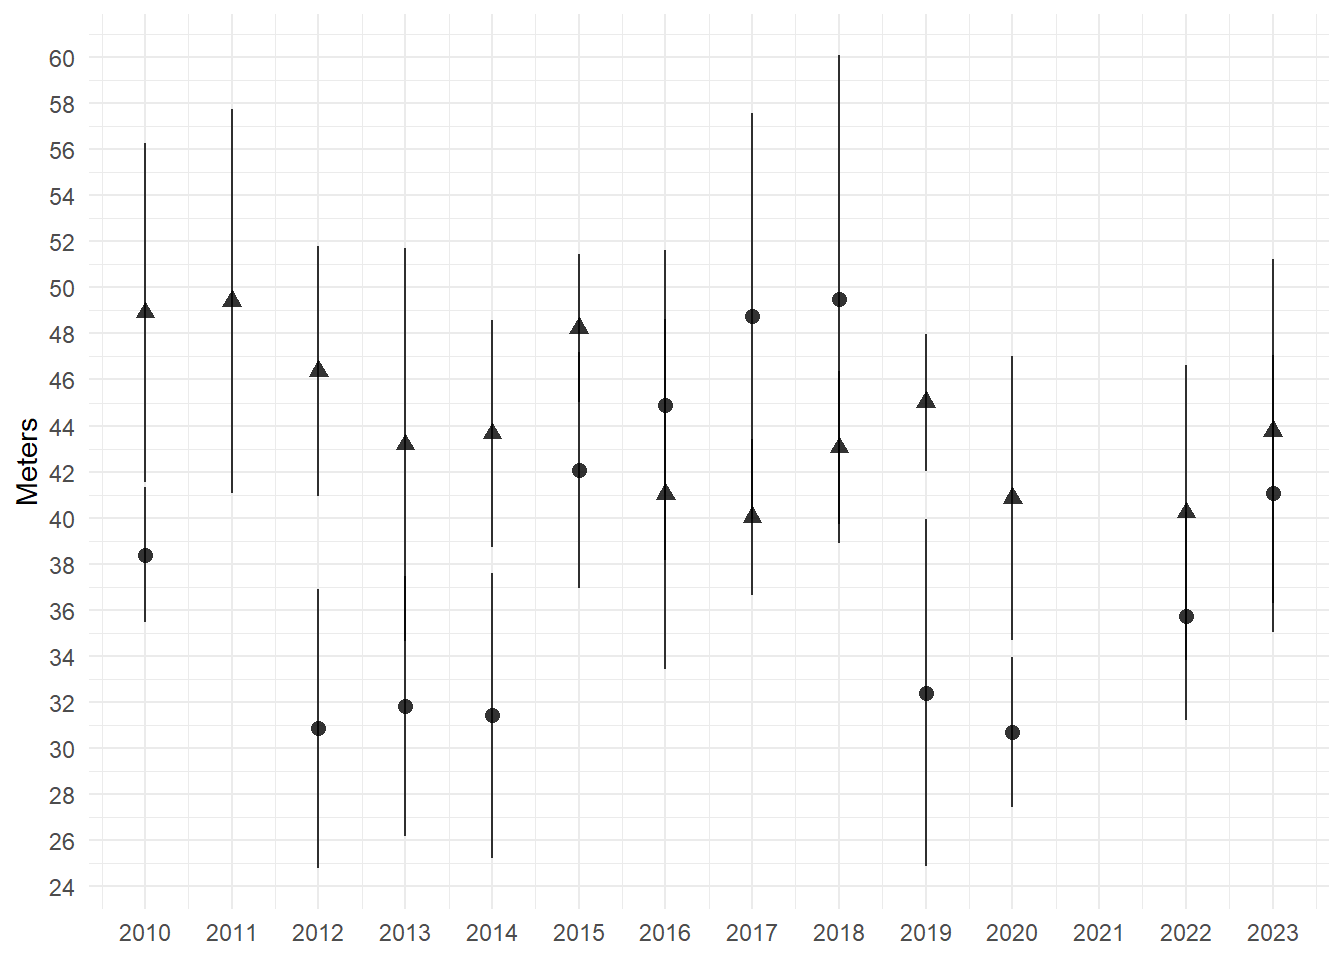
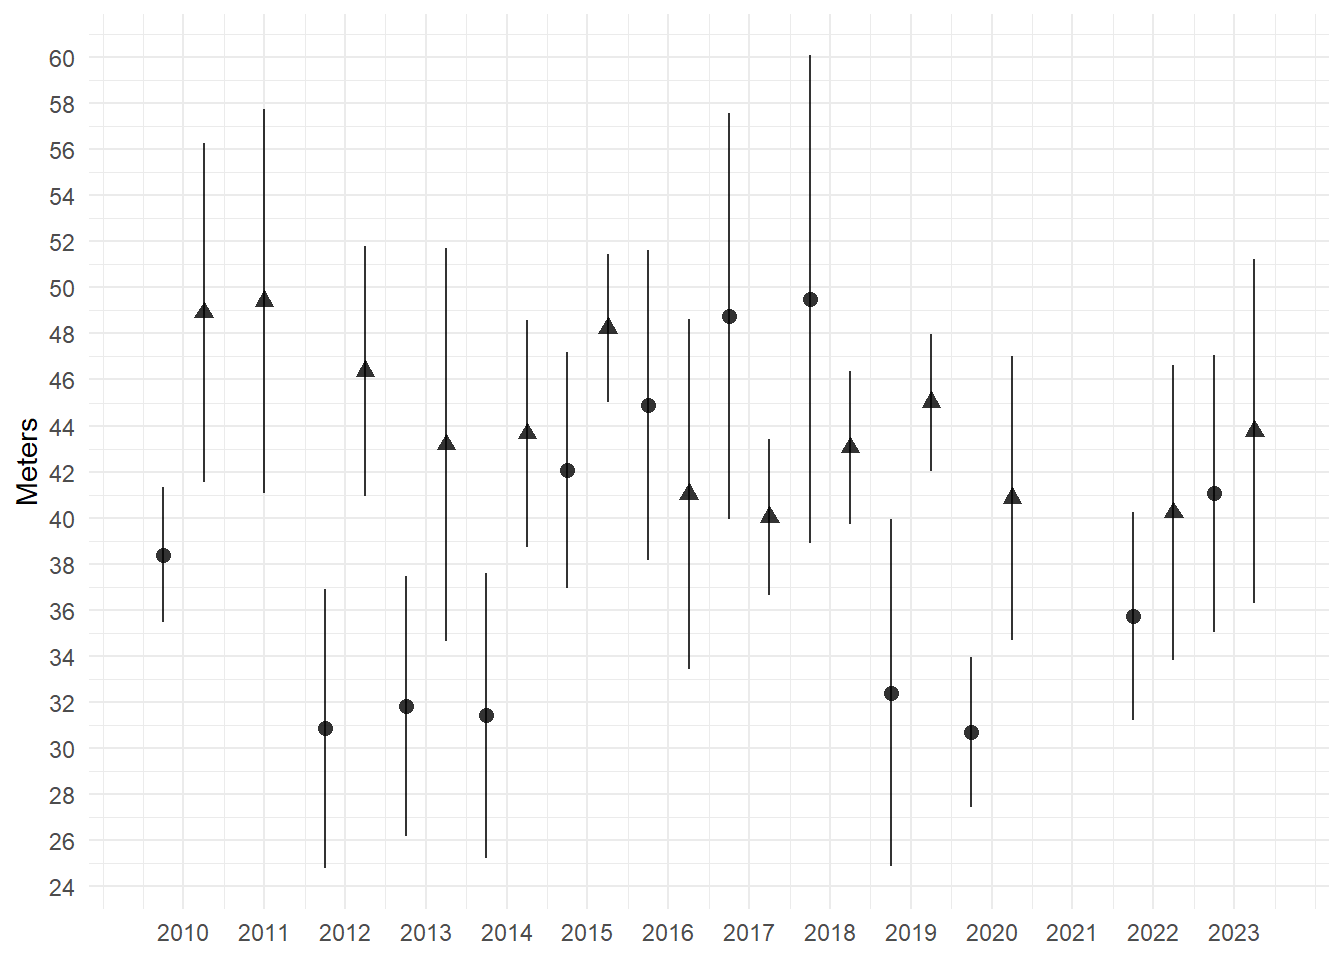
fixed errors

diff --git a/docs/modules/18_visualizing_uncertainty.html b/docs/modules/18_visualizing_uncertainty.html
@@ -7,7 +7,7 @@
 <meta name="viewport" content="width=device-width, initial-scale=1.0, user-scalable=yes">
 
 <meta name="author" content="Gabriel I. Cook">
-<meta name="dcterms.date" content="2023-11-21">
+<meta name="dcterms.date" content="2023-11-22">
 
 <title>PSYC167 - Visualizing uncertainty</title>
 <style>
@@ -567,7 +567,7 @@ pre > code.sourceCode > span > a:first-child::before { text-decoration: underlin
     <div>
     <div class="quarto-title-meta-heading">Published</div>
     <div class="quarto-title-meta-contents">
-      <p class="date">November 21, 2023</p>
+      <p class="date">November 22, 2023</p>
     </div>
   </div>
   
@@ -1023,11 +1023,10 @@ Under construction.
 <span id="cb19-5"><a href="#cb19-5" aria-hidden="true" tabindex="-1"></a>                       <span class="at">fill =</span> Team,</span>
 <span id="cb19-6"><a href="#cb19-6" aria-hidden="true" tabindex="-1"></a>                       <span class="at">col =</span> Team,</span>
 <span id="cb19-7"><a href="#cb19-7" aria-hidden="true" tabindex="-1"></a>                       <span class="at">shape =</span> Team</span>
-<span id="cb19-8"><a href="#cb19-8" aria-hidden="true" tabindex="-1"></a>                       ),</span>
-<span id="cb19-9"><a href="#cb19-9" aria-hidden="true" tabindex="-1"></a>         <span class="at">position =</span> <span class="fu">position_dodge2</span>(<span class="at">width =</span> <span class="dv">1</span>)</span>
-<span id="cb19-10"><a href="#cb19-10" aria-hidden="true" tabindex="-1"></a>         ) <span class="sc">+</span></span>
-<span id="cb19-11"><a href="#cb19-11" aria-hidden="true" tabindex="-1"></a>  <span class="fu">theme_minimal</span>() <span class="sc">+</span></span>
-<span id="cb19-12"><a href="#cb19-12" aria-hidden="true" tabindex="-1"></a>  <span class="fu">theme</span>(<span class="at">legend.position =</span> <span class="st">"none"</span>)</span></code><button title="Copy to Clipboard" class="code-copy-button"><i class="bi"></i></button></pre></div>
+<span id="cb19-8"><a href="#cb19-8" aria-hidden="true" tabindex="-1"></a>                       )</span>
+<span id="cb19-9"><a href="#cb19-9" aria-hidden="true" tabindex="-1"></a>         )<span class="sc">+</span></span>
+<span id="cb19-10"><a href="#cb19-10" aria-hidden="true" tabindex="-1"></a>  <span class="fu">theme_minimal</span>() <span class="sc">+</span></span>
+<span id="cb19-11"><a href="#cb19-11" aria-hidden="true" tabindex="-1"></a>  <span class="fu">theme</span>(<span class="at">legend.position =</span> <span class="st">"none"</span>)</span></code><button title="Copy to Clipboard" class="code-copy-button"><i class="bi"></i></button></pre></div>
 </div>
 </section>
 <section id="geom_pointrange" class="level3">
@@ -1052,8 +1051,9 @@ Under construction.
 <span id="cb21-2"><a href="#cb21-2" aria-hidden="true" tabindex="-1"></a>  <span class="fu">geom_pointrange</span>(<span class="at">mapping =</span> <span class="fu">aes</span>(<span class="at">ymin =</span> mean <span class="sc">-</span> sd, </span>
 <span id="cb21-3"><a href="#cb21-3" aria-hidden="true" tabindex="-1"></a>                                <span class="at">ymax =</span> mean <span class="sc">+</span> sd</span>
 <span id="cb21-4"><a href="#cb21-4" aria-hidden="true" tabindex="-1"></a>                                ),</span>
-<span id="cb21-5"><a href="#cb21-5" aria-hidden="true" tabindex="-1"></a>                  <span class="at">alpha =</span> .<span class="dv">8</span></span>
-<span id="cb21-6"><a href="#cb21-6" aria-hidden="true" tabindex="-1"></a>                  )</span></code><button title="Copy to Clipboard" class="code-copy-button"><i class="bi"></i></button></pre></div>
+<span id="cb21-5"><a href="#cb21-5" aria-hidden="true" tabindex="-1"></a>                  <span class="at">position =</span> <span class="fu">position_dodge2</span>(<span class="at">width =</span> <span class="dv">1</span>),</span>
+<span id="cb21-6"><a href="#cb21-6" aria-hidden="true" tabindex="-1"></a>                  <span class="at">alpha =</span> .<span class="dv">8</span></span>
+<span id="cb21-7"><a href="#cb21-7" aria-hidden="true" tabindex="-1"></a>                  )</span></code><button title="Copy to Clipboard" class="code-copy-button"><i class="bi"></i></button></pre></div>
 <div class="cell-output-display">
 <p><img src="18_visualizing_uncertainty_files/figure-html/unnamed-chunk-24-1.png" class="img-fluid" width="672"></p>
 </div>
@@ -1064,8 +1064,9 @@ Under construction.
 <span id="cb22-2"><a href="#cb22-2" aria-hidden="true" tabindex="-1"></a>  <span class="fu">geom_pointrange</span>(<span class="at">mapping =</span> <span class="fu">aes</span>(<span class="at">ymin =</span> mean <span class="sc">-</span> sd, </span>
 <span id="cb22-3"><a href="#cb22-3" aria-hidden="true" tabindex="-1"></a>                                <span class="at">ymax =</span> mean <span class="sc">+</span> sd</span>
 <span id="cb22-4"><a href="#cb22-4" aria-hidden="true" tabindex="-1"></a>                                ),</span>
-<span id="cb22-5"><a href="#cb22-5" aria-hidden="true" tabindex="-1"></a>                  <span class="at">alpha =</span> .<span class="dv">8</span></span>
-<span id="cb22-6"><a href="#cb22-6" aria-hidden="true" tabindex="-1"></a>                  )</span></code><button title="Copy to Clipboard" class="code-copy-button"><i class="bi"></i></button></pre></div>
+<span id="cb22-5"><a href="#cb22-5" aria-hidden="true" tabindex="-1"></a>                  <span class="at">position =</span> <span class="fu">position_dodge2</span>(<span class="at">width =</span> <span class="dv">1</span>),</span>
+<span id="cb22-6"><a href="#cb22-6" aria-hidden="true" tabindex="-1"></a>                  <span class="at">alpha =</span> .<span class="dv">8</span></span>
+<span id="cb22-7"><a href="#cb22-7" aria-hidden="true" tabindex="-1"></a>                  )</span></code><button title="Copy to Clipboard" class="code-copy-button"><i class="bi"></i></button></pre></div>
 <div class="cell-output-display">
 <p><img src="18_visualizing_uncertainty_files/figure-html/unnamed-chunk-25-1.png" class="img-fluid" width="672"></p>
 </div>
@@ -1104,9 +1105,9 @@ Under construction.
 <span id="cb24-16"><a href="#cb24-16" aria-hidden="true" tabindex="-1"></a>    <span class="fu">geom_pointrange</span>(<span class="at">mapping =</span> <span class="fu">aes</span>(<span class="at">ymin =</span> mean <span class="sc">-</span> sd, </span>
 <span id="cb24-17"><a href="#cb24-17" aria-hidden="true" tabindex="-1"></a>                                  <span class="at">ymax =</span> mean <span class="sc">+</span> sd,</span>
 <span id="cb24-18"><a href="#cb24-18" aria-hidden="true" tabindex="-1"></a>                                  <span class="at">col =</span> Team),</span>
-<span id="cb24-19"><a href="#cb24-19" aria-hidden="true" tabindex="-1"></a>                  <span class="at">alpha =</span> .<span class="dv">8</span>,</span>
-<span id="cb24-20"><a href="#cb24-20" aria-hidden="true" tabindex="-1"></a>                  <span class="at">position =</span> <span class="fu">position_dodge2</span>(<span class="at">width =</span> <span class="dv">1</span>)</span>
-<span id="cb24-21"><a href="#cb24-21" aria-hidden="true" tabindex="-1"></a>                  ) <span class="sc">+</span></span>
+<span id="cb24-19"><a href="#cb24-19" aria-hidden="true" tabindex="-1"></a>                    <span class="at">alpha =</span> .<span class="dv">8</span>,</span>
+<span id="cb24-20"><a href="#cb24-20" aria-hidden="true" tabindex="-1"></a>                    <span class="at">position =</span> <span class="fu">position_dodge2</span>(<span class="at">width =</span> <span class="dv">1</span>)</span>
+<span id="cb24-21"><a href="#cb24-21" aria-hidden="true" tabindex="-1"></a>                    ) <span class="sc">+</span></span>
 <span id="cb24-22"><a href="#cb24-22" aria-hidden="true" tabindex="-1"></a>    <span class="fu">labs</span>(<span class="at">title =</span> <span class="st">"position_dodge2(width = 1)"</span>, <span class="at">tag =</span> <span class="st">"B"</span>),</span>
 <span id="cb24-23"><a href="#cb24-23" aria-hidden="true" tabindex="-1"></a>  </span>
 <span id="cb24-24"><a href="#cb24-24" aria-hidden="true" tabindex="-1"></a>  swim_base_plot <span class="sc">+</span> </span>
